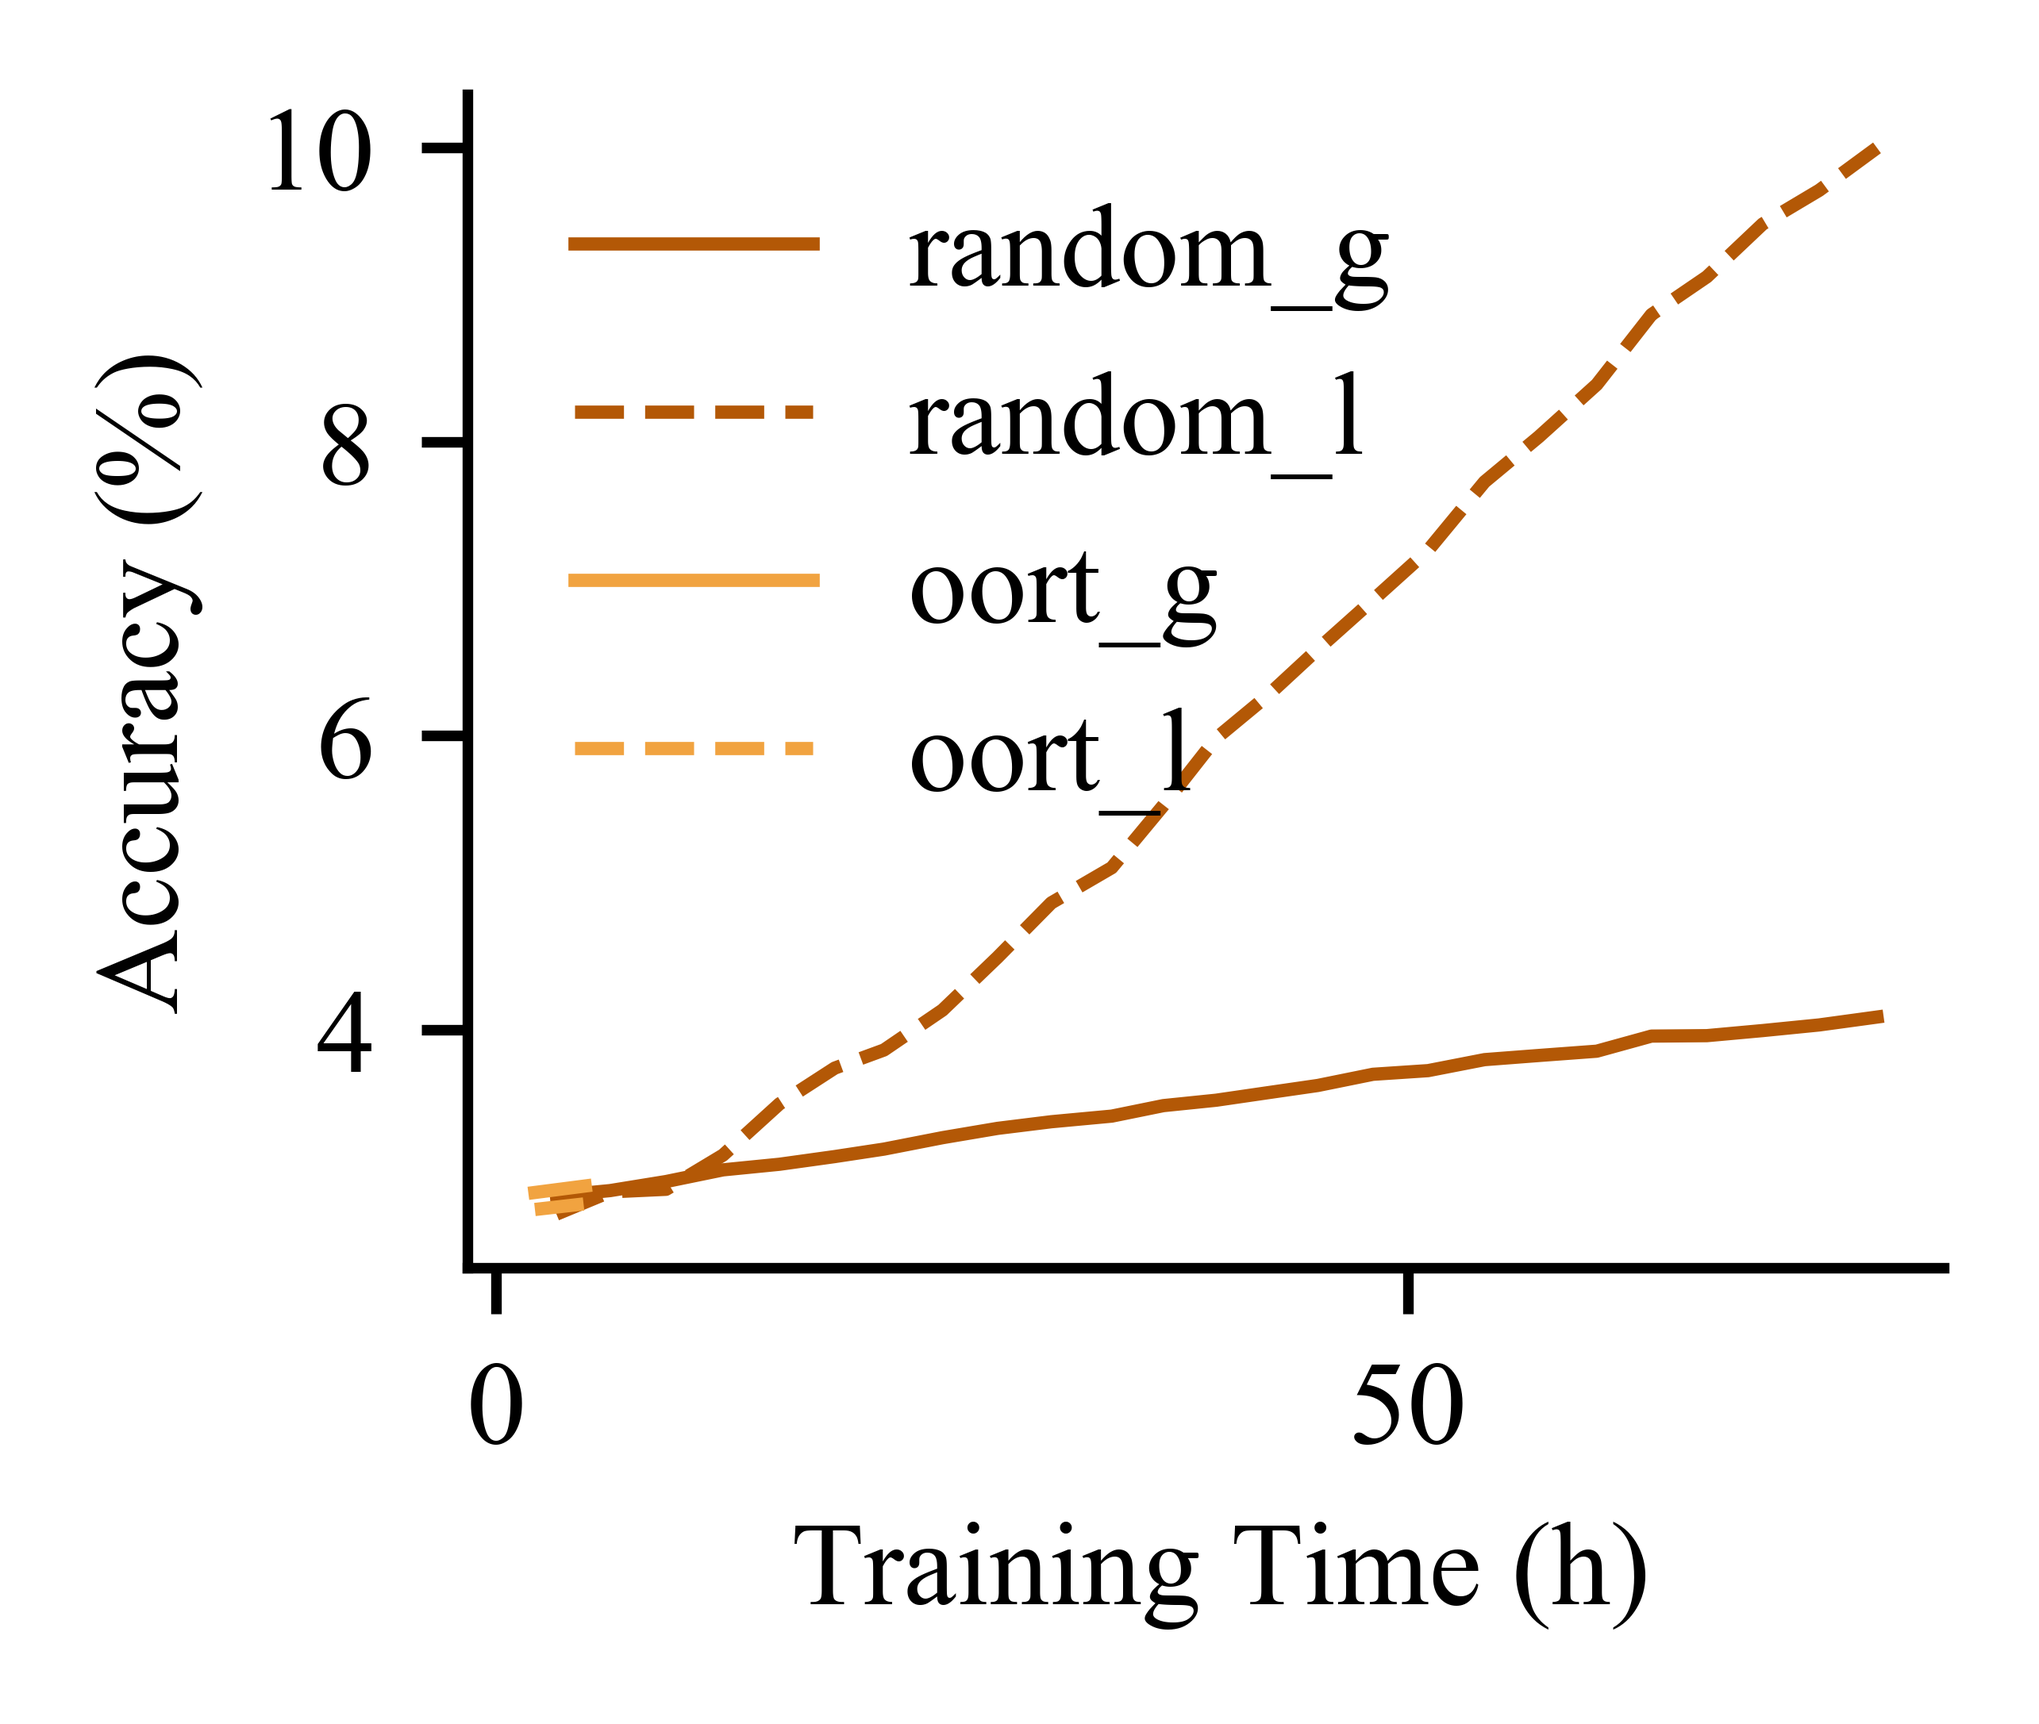
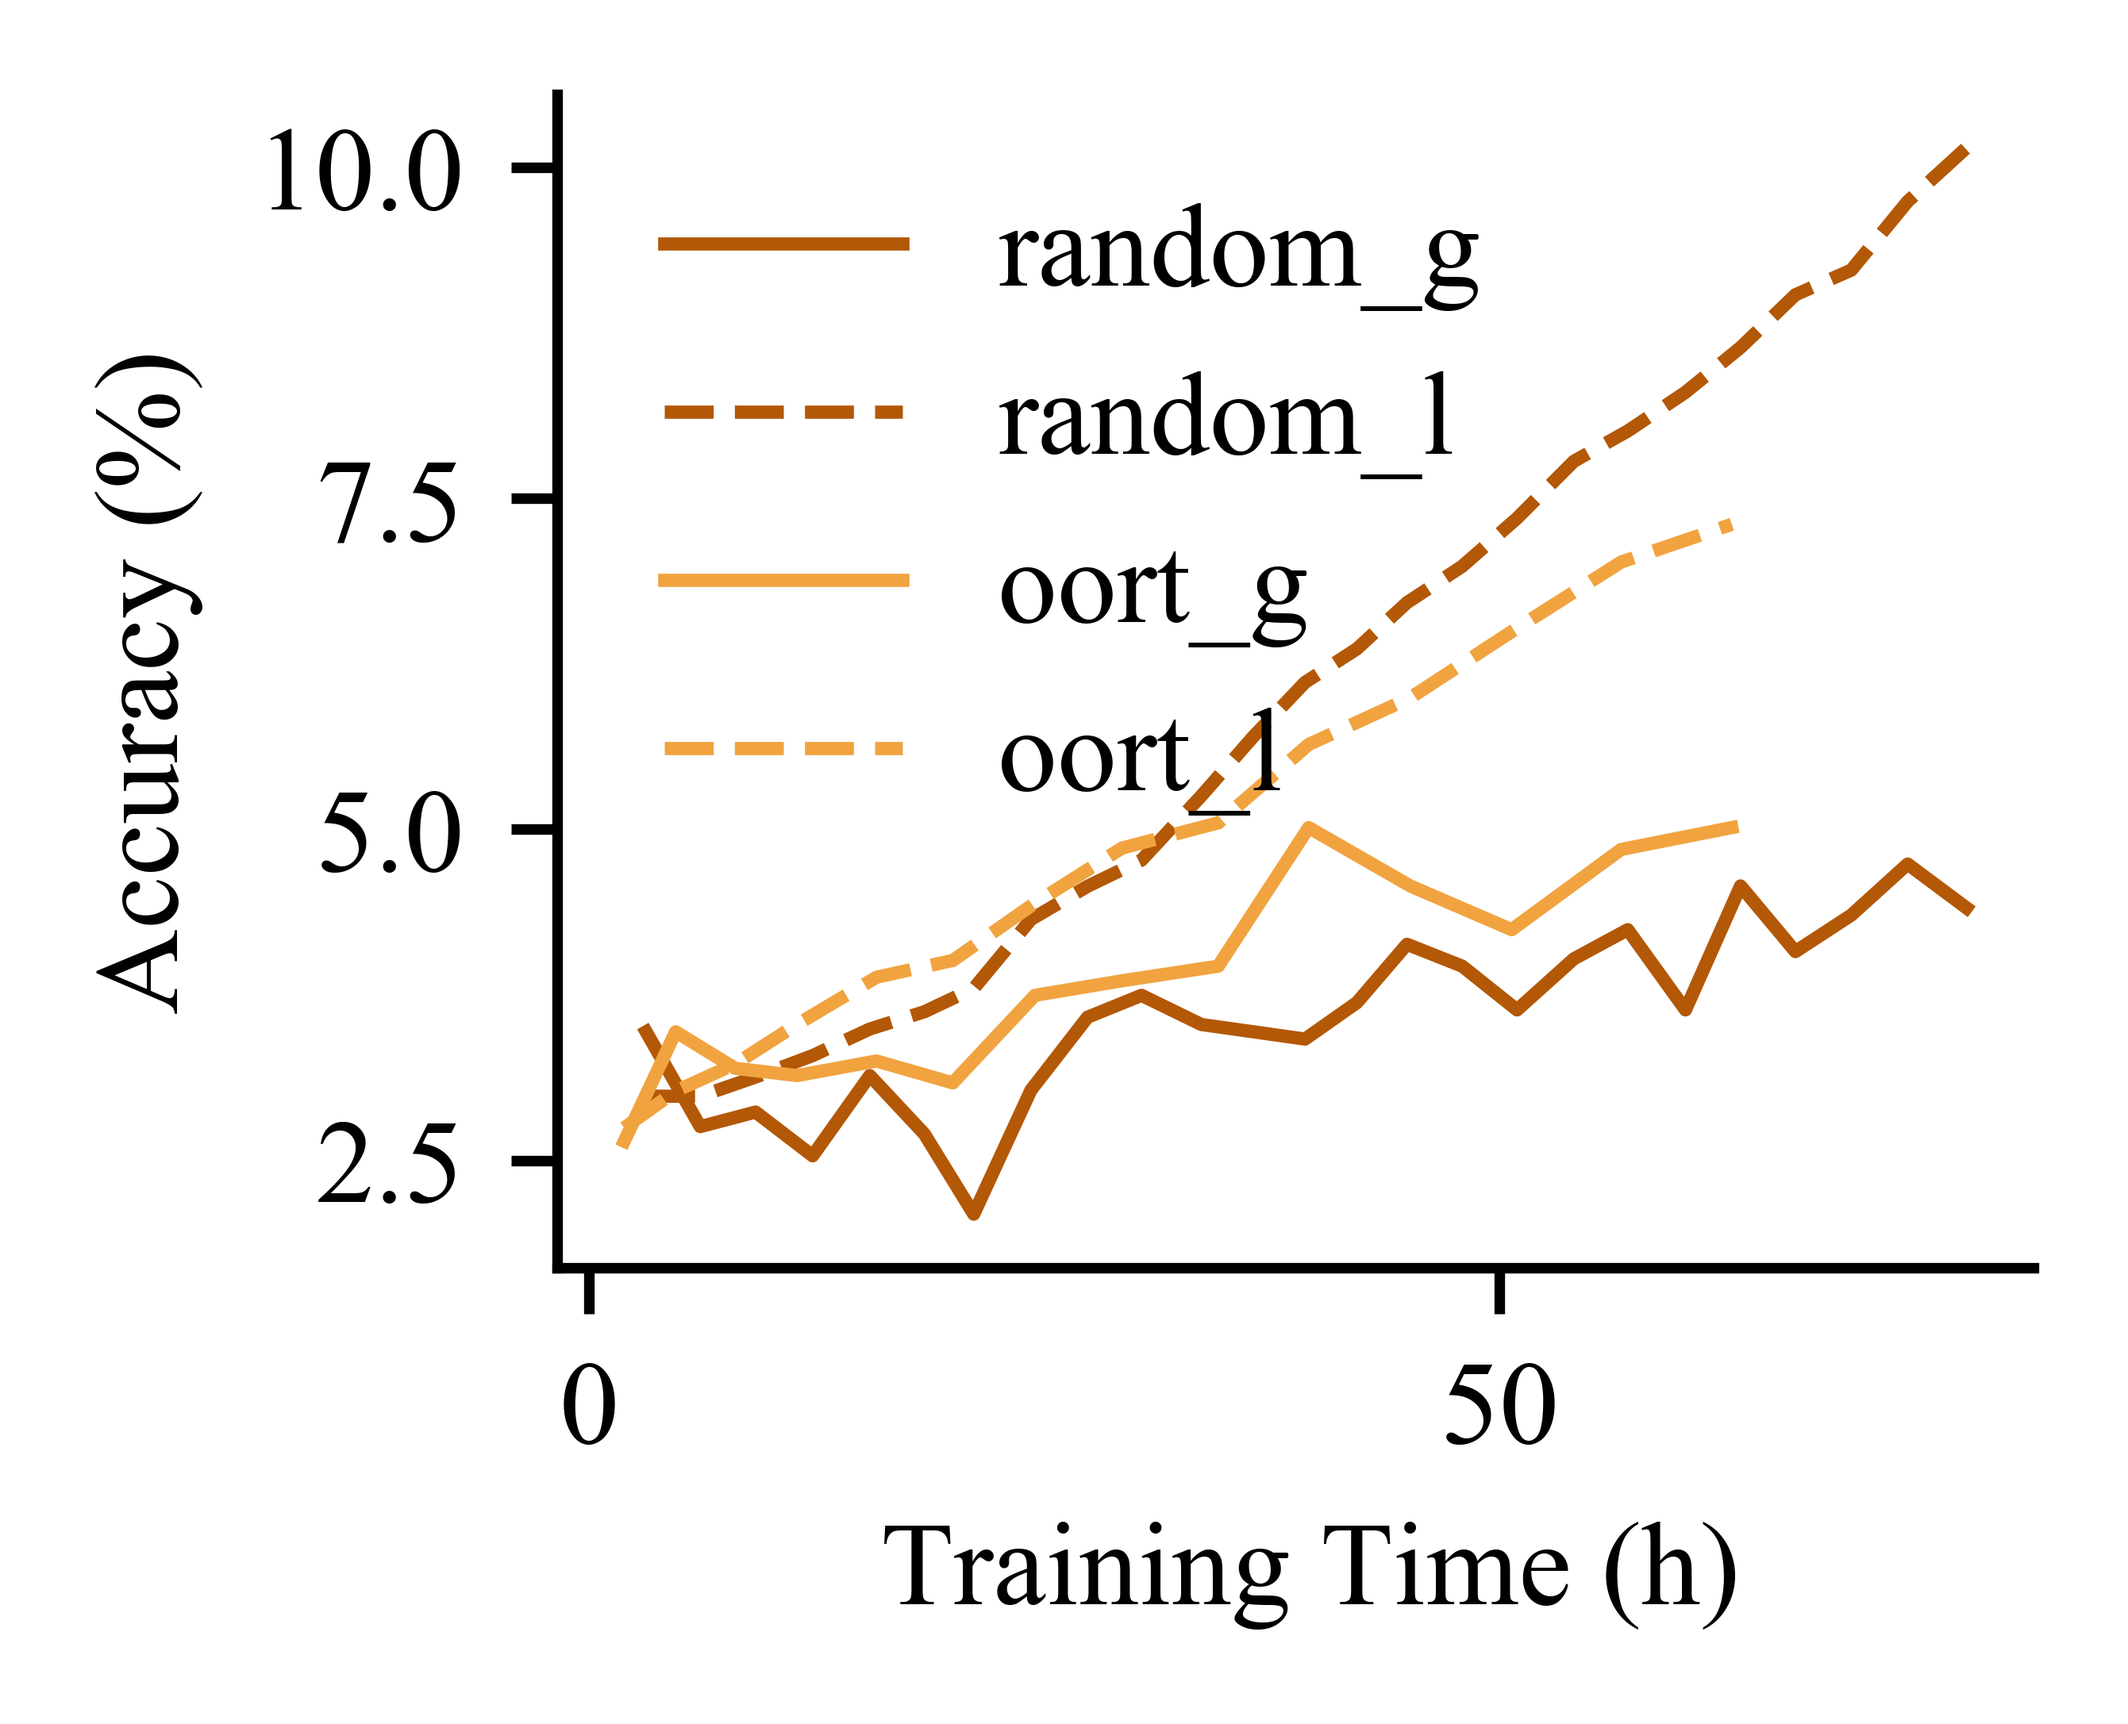
ns

diff --git a/core/evals/my_perf.py b/core/evals/my_perf.py
@@ -92,100 +92,118 @@ def plot_line_2(datas, xs, linelabels=None, label=None, y_label="CDF", name="my_
     plt.savefig(name, bbox_inches='tight')
 
 def run(task_prefix):
-    personalized = "none" # "meta" or "none" or "ditto"
+    personalized = "ditto" # "meta" or "none" or "ditto"
     task_dict = {
         f"random_{personalized}_all_test": "random",
         f"oort_{personalized}_all_test": "oort",
-        f"async_{personalized}_all_test": "async"
+        # f"async_{personalized}_all_test": "async"
     }
-    label_list = []
-    duration_label_list = []
 
-    x_list_list = []
-    y_list_list = []
-    x_list_list_2 = []
-    y_list_list_2 = []
-    culmu_time_in_hrs_list = []
+    # x-axis
+    training_round_list_list_no_sync = []
+    testing_round_list_list_no_sync = []
+    testing_hour_list_list = []
+
+    # testing_acc_lines-axis
+    acc_list_list = []
+    acc_list_list_no_async = []
+    duration_list_list_no_sync = []
+
+    # label
+    label_list = []
+    label_list_no_async = []
+    label_list_duration_no_async = []
 
     for k, v in task_dict.items():
         if v not in ["async"]:
-            duration_label_list.append(v)
+            label_list_duration_no_async.append(v)
+            label_list_no_async.append(f"{v}_g")
+            label_list_no_async.append(f"{v}_l")
         label_list.append(f"{v}_g")
         label_list.append(f"{v}_l")
+
+        testing_acc_lines = []
+        testing_local_acc_lines = []
+        training_duration_lines = []
         log_file = os.path.join(
             os.getcwd(), 'history', f"{task_prefix}_{k}",
             'aggregator', 'log_1'
         )
         with open(log_file, 'r') as file:
             lines = file.readlines()
-
-        focus = []
-        focus_local = []
-        focus_duration = []
         for idx, line in enumerate(lines):
             if 'FL Testing' in line:
-                focus.append(line)
+                testing_acc_lines.append(line)
             elif 'FL Local Testing' in line:
-                focus_local.append(line)
+                testing_local_acc_lines.append(line)
             elif 'Wall clock time' in line:
-                focus_duration.append(line)
+                training_duration_lines.append(line)
 
-        x_list = []
-        y_list = []
-        clock_list = []
-        for f in focus:
+        # global testing accuracy
+        round_list = []
+        acc_list = []
+        hour_list = []
+        for f in testing_acc_lines:
             epoch = f[f.find("epoch")+7:].split(',')[0]
             top1_acc_str = f[f.find("top_1")+7:].split(' ')[0]
             virtual_clock_str = f[f.find("virtual_clock")+15:].split(',')[0]
-            x_list.append(int(epoch))
-            y_list.append(float(top1_acc_str))
-            clock_list.append(float(virtual_clock_str) / 60 / 60)
-        y_list_list.append(y_list)
-        x_list_list.append(x_list)
-        culmu_time_in_hrs_list.append(clock_list)
+            round_list.append(int(epoch))
+            acc_list.append(float(top1_acc_str))
+            hour_list.append(float(virtual_clock_str) / 60 / 60)
 
-        x_local_list = []
-        y_local_list = []
-        clock_local_list = []
-        for f in focus_local:
+        acc_list_list.append(acc_list)
+        if v not in ["async"]:
+            testing_round_list_list_no_sync.append(round_list)
+            acc_list_list_no_async.append(acc_list)
+        testing_hour_list_list.append(hour_list)
+
+        # average local testing accuracy
+        round_local_list = []
+        acc_local_list = []
+        hour_local_list = []
+        for f in testing_local_acc_lines:
             epoch = f[f.find("epoch") + 7:].split(',')[0]
             top1_acc_str = f[f.find("top_1") + 7:].split(' ')[0]
             virtual_clock_str = f[f.find("virtual_clock") + 15:].split(',')[0]
-            x_local_list.append(int(epoch))
-            y_local_list.append(float(top1_acc_str))
-            clock_local_list.append(float(virtual_clock_str) / 60 / 60)
-        y_list_list.append(y_local_list)
-        x_list_list.append(x_local_list)
-        culmu_time_in_hrs_list.append(clock_local_list)
+            round_local_list.append(int(epoch))
+            acc_local_list.append(float(top1_acc_str))
+            hour_local_list.append(float(virtual_clock_str) / 60 / 60)
 
+        acc_list_list.append(acc_local_list)
         if v not in ["async"]:
-            x_list_2 = []
-            y_list_2 = []
+            testing_round_list_list_no_sync.append(round_local_list)
+            acc_list_list_no_async.append(acc_local_list)
+        testing_hour_list_list.append(hour_local_list)
+
+        # duration for each training round
+        if v not in ["async"]:
+            round_list = []
+            duration_list = []
             epoch = 0
-            for f in focus_duration:
+            for f in training_duration_lines:
                 t = int(f[f.find("Wall clock time") + 17:].split(',')[0])
-                y_list_2.append(t)
+                duration_list.append(t)
                 if epoch > 0:
-                    x_list_2.append(epoch)
+                    round_list.append(epoch)
                 epoch += 1
 
             tmp_list = []
-            for idx in range(len(y_list_2[:-1])):
-                tmp_list.append(y_list_2[idx+1] - y_list_2[idx])
+            for idx in range(len(duration_list[:-1])):
+                tmp_list.append(duration_list[idx+1] - duration_list[idx])
 
-            y_list_list_2.append(tmp_list)
-            x_list_list_2.append(x_list_2)
+            duration_list_list_no_sync.append(tmp_list)
+            training_round_list_list_no_sync.append(round_list)
 
 
     save_path = os.path.join(os.getcwd(), 'history', f"{personalized}_round_to_acc")
-    plot_line(y_list_list[:-2], x_list_list[:-2],
-              label_list[:-2], "Training Rounds", "Accuracy (%)", save_path)
+    plot_line(acc_list_list_no_async, testing_round_list_list_no_sync,
+              label_list_no_async, "Training Rounds", "Accuracy (%)", save_path)
     save_path = os.path.join(os.getcwd(), 'history', f"{personalized}_time_to_acc")
-    plot_line(y_list_list, culmu_time_in_hrs_list,
+    plot_line(acc_list_list, testing_hour_list_list,
             label_list, " Training Time (h)", "Accuracy (%)", save_path)
 
     save_path = os.path.join(os.getcwd(), 'history', f"{personalized}_round_duration")
-    plot_line_2(y_list_list_2, x_list_list_2,
-              duration_label_list, "Training Rounds", "Duration (s)", save_path)
+    plot_line_2(duration_list_list_no_sync, training_round_list_list_no_sync,
+              label_list_duration_no_async, "Training Rounds", "Duration (s)", save_path)
 
 run(sys.argv[1])
